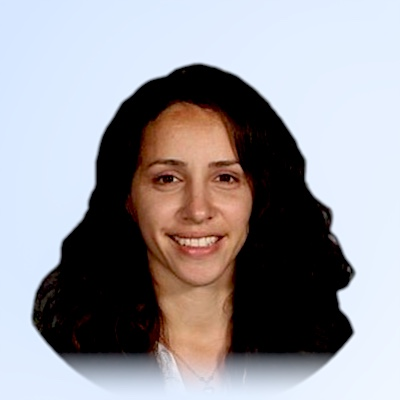
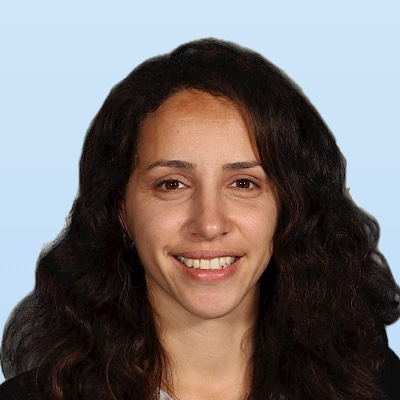
Spotlight: sharper, cleaner photo of Olga

diff --git a/spotlight.html b/spotlight.html
@@ -93,7 +93,7 @@
             <summary>
               <p class="qcard-quote">Once I learned to tell my story in their language, the doors opened.</p>
               <div class="qcard-who">
-                <img src="assets/olga.jpg?v=20261005" alt="Olga" width="400" height="400">
+                <img src="assets/olga.jpg?v=20261005b" alt="Olga" width="400" height="400">
                 <div><b>Olga</b><span>ER nurse → Digital Health Lead, Tzafon Medical Center</span></div>
               </div>
               <span class="card-link qcard-toggle"><span class="t-open">Read her story</span><span class="t-close">Close</span> <svg class="ico-sm"><use href="#i-arrow"/></svg></span>
